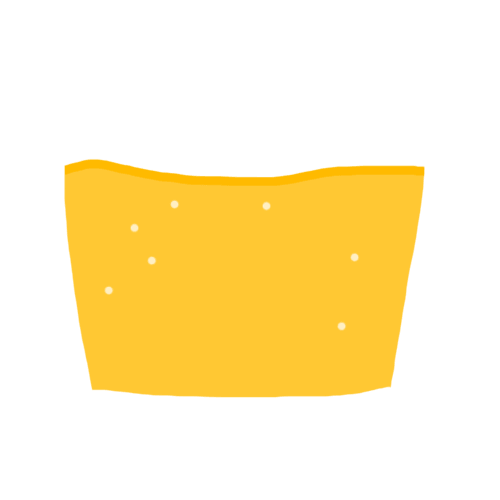
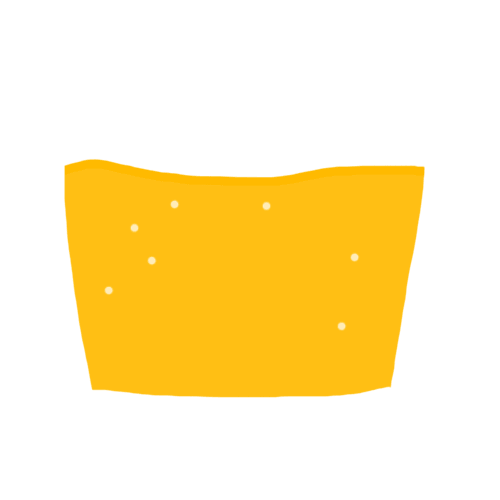
。

Changed region(s): [[0.12, 0.33, 0.87, 0.81]]

diff --git a/blog/私人/我的排行榜/收藏_酒窖仓库.html b/blog/私人/我的排行榜/收藏_酒窖仓库.html
@@ -2,14 +2,14 @@
 layout: page2
 title: 酿酒材料仓库
 nav_text: 酿酒材料仓库
-nav_url: <a href="/jiuxian">酒仙笔记</a><a>/</a><a href="/jiujiao">猫球的酒窖</a>
+nav_url: <a href="/jiuxian">酒仙笔记</a><a>/</a><a href="/cangmai">猫球仓买</a>
 permalink: jiujiao/cangku
 ---
 <style id="选择">.全部{font-weight:bold}</style>
 <style id="选择2">.喜好{font-weight:bold}</style>
 <div id="弹窗" style="display:none;"></div>
 <input type="text" placeholder="搜索" id="搜索" autocomplete="off" onkeyup="搜索(this.value)">
-<fieldset id="dy0"><small>排序方式：</small> <a onclick="排序(当前排序='首字母')" class='首字母'>首字母</a>　<a onclick="排序(当前排序='喜好')" class='喜好'>喜好</a>　<a onclick="排序(当前排序='品级')" class='品级'>品级</a>　<a onclick="排序(当前排序='随机')" class='随机'>随机</a></fieldset>
+<fieldset id="dy0"><small>排序方式：</small> <a onclick="排序(当前排序='首字母')" class='首字母'>首字母</a>　<a onclick="排序(当前排序='喜好')" class='喜好'>喜好</a>　<a onclick="排序(当前排序='稀有度')" class='稀有度'>稀有度</a>　<a onclick="排序(当前排序='随机')" class='随机'>随机</a></fieldset>
 
 <a onclick="this.style.display='none';this.nextElementSibling.style.display='inline'">筛选</a>
 <fieldset id="dy1" style="display:none;"></fieldset><br><br><div id="dy2"></div><hr>
@@ -51,14 +51,13 @@ let 选择=["br", // "【","】"
     ["亚煞极的黑暗之血",["来自艾泽拉斯上古之神亚煞极。",""],["YSJDHAZX",2,"«魔兽世界»",2,"怪物"]],
     ["上古水果",["千万年来冬眠中的水果。",""],["SGSG",3,"«星露谷物语»",2,"水果","蓝"]],
     ["霜瓜",["因表面结一层白霜而得名，瓜肉鲜脆清甜。",""],["SG",4,"«星露谷物语»",4,"水果","甜","白","蓝"]],
-    ["附魔金苹果",["用大量黄金给一颗苹果附魔，很珍贵。<br>有治愈效果，还会让人更加强壮。",""],["FMJPG",3,"«我的世界»",1,"水果","治愈","强身健体","黄"]],
     ["骨粉",["用骨头磨成的粉，可以帮助植物快速生长。",""],["GF",5,"«我的世界»",4,"白"]],
     ["恶魂之泪",["[恶魂]死亡时掉落。",""],["EHZL",3,"«我的世界»",3,"怪物"]],
     ["发酵蛛眼",["用蜘蛛眼、糖、棕色蘑菇发酵获得。",""],["FJZY",4,"«我的世界»",4,"生物","怪物","紫"]],
     ["下界疣",["生长在[灵魂沙]上的奇怪植物，在«我的世界»是酿造几乎所有药水的基础。",""],["XJY",4,"«我的世界»",3,"植物","红"]],
     ["鳞渊冰泉",["产自[鳞渊境]的天然饮用水，但热量极高。",""],["LYBQ",4,"«星穹铁道»",4,"水"]],
     ["热浮羊奶",["仙舟联盟的特产浮羊奶，也叫‘晴柔奶’，难以保存，所以很难在域外品尝到。<br>加热后不用加糖也很甜，但放凉后会发苦，必须趁热喝。",""],["RFYN",4,"«星穹铁道»",4,"甜","乳"]],
-    ["“幸运祝福”",["丽莎为我炼制的奇特药剂，呈现出黄金般的美丽色泽。能为使用者带来好运，在药效消失之前将会事事顺心。<br>由于所需原料相当稀有，调配过程极其复杂，只有极少数人能够炼制成功。",""],["XYZF",2,"«原神»",2,"药剂","好运","黄"]],
+    ["“幸运祝福”",["丽莎为我炼制的奇特药剂，呈现出黄金般的美丽色泽。能为使用者带来好运，在药效消失之前将会事事顺心。<br>由于所需原料相当稀有，调配过程极其复杂，只有极少数人能够炼制成功。",""],["XYZF",1,"«原神»",2,"药剂","好运","黄"]],
 
     //原神物产志
     ["墩墩桃",["林中灌木结出的果实。肉质敦实，味道香甜可口。据说食用后还有宁心安神的功效。",""],["DDT",4,"«原神»",4,"水果","甜","安神","粉"]],
@@ -113,6 +112,7 @@ for(let i=0;data.length>i;i++){
 let 选项=[],当前排序="喜好";
 
 let 喜好={0:"S",1:"A",2:"B",3:"C",4:"D",5:"未分类"}
+let 稀有度={0:"S",1:"A",2:"B",3:"C",4:"D",5:"垃圾"}
 
 function 打印(){
     let 结果=data.filter(a=>选项.every(b=>a[2].includes(b)));
@@ -126,6 +126,17 @@ function 打印(){
                 if(结果[i][2][3]!=临时||i==0){
                     临时=结果[i][2][3];
                     dyy+="<h4>"+喜好[临时]+"</h4>";
+                }
+                dyy+=结果[i][1];
+                document.getElementById("dy2").innerHTML=dyy;
+            }
+        }else if(当前排序=="稀有度"){
+            let 临时="";
+            let dyy="";
+            for(let i=0;结果.length>i;i++){
+                if(结果[i][2][1]!=临时||i==0){
+                    临时=结果[i][2][1];
+                    dyy+="<h4>"+稀有度[临时]+"</h4>";
                 }
                 dyy+=结果[i][1];
                 document.getElementById("dy2").innerHTML=dyy;
@@ -153,7 +164,8 @@ function 选(o){
 function 排序(){
     if(当前排序=='首字母'){
         data.sort((a,b)=>a[2][0].localeCompare(b[2][0]));
-    }else if(当前排序=='品级'){
+    }else if(当前排序=='稀有度'){
+        data.sort((a,b)=>a[2][3]-b[2][3]);
         data.sort((a,b)=>a[2][1]-b[2][1]);
     }else if(当前排序=='喜好'){
         data.sort((a,b)=>a[2][1]-b[2][1]);

diff --git a/css/all.css b/css/all.css
@@ -48,6 +48,16 @@ table.tm tr td,table.tm tr{background-color:transparent !important}
 .xhxl{border-bottom:2px solid #0044ff}
 .xhxlv{border-bottom:2px solid #00ff51}
 .xhxh{border-bottom:2px solid #ff0000}
+del.叉{position:relative;display:inline-block;text-decoration:none}
+del.叉::after,del.叉::before{content:'';position:absolute;top:50%;left:0;width:100%;height:1.4px;background:currentColor}
+del.叉1::after{transform:translateY(-50%) rotate(-45deg)}del.叉1::before{transform:translateY(50%) rotate(45deg)}
+del.叉2::after{transform:translateY(-50%) rotate(-22deg)}del.叉2::before{transform:translateY(50%) rotate(22deg)}
+del.叉3::after,del.叉4::after{transform:translateY(-50%) rotate(-15deg)}del.叉3::before,del.叉4::before{transform:translateY(50%) rotate(15deg)}
+del.叉5::after{transform:translateY(-50%) rotate(-10deg)}del.叉5::before{transform:translateY(50%) rotate(10deg)}
+del.叉6::after{transform:translateY(-50%) rotate(-8deg)}del.叉6::before{transform:translateY(50%) rotate(8deg)}
+del.叉7::after{transform:translateY(-50%) rotate(-6deg)}del.叉7::before{transform:translateY(50%) rotate(6deg)}
+del.叉8::after,del.叉9::after{transform:translateY(-50%) rotate(-5deg)}del.叉8::before,del.叉9::before{transform:translateY(50%) rotate(5deg)}
+del.叉红::after,del.叉红::before{color:#ff0000}
 
 .zhushi{color:#6A9955}span.zhushi:before{content:"//"}div.zhushi:before{content:"/* "}div.zhushi:after{content:" */"}
 span.zhushi[onclick^="this.innerHTML="]{cursor:pointer}

diff --git a/blog/笔记/社会问题/游戏节奏/游戏节奏1_2024.html b/blog/笔记/社会问题/游戏节奏/游戏节奏1_2024.html
@@ -2399,6 +2399,8 @@ up主[饭帅]发文分析和科普原神的UI设计（<a href="https://www.bilib
 〈li|其他游戏 乙游 网易〉«时空中的绘旅人»的两个章节消耗体力减半，已经用体力过完这些章节的老玩家感到不满。</li>
 〈li|其他游戏 乙游 网易 X群体〉«时空中的绘旅人»新卡出现了婚纱元素，被〈X群体〉抵制，她们认为结婚是对女性的压迫。</li>
 〈li|其他游戏 任天堂〉任天堂公布财报显示switch累计销量超1亿台，“任天堂”等话题登上微博热搜，不过也有许多网友疑惑「任天堂是谁？」</li>
+〈li|其他游戏 网易 碰瓷营销〉«燕云十六声»发文嘲讽竞品是「被霍格沃兹占领的武侠」、「声称武侠游戏，但充斥着华丽夸张的超自然设定」。<br>
+后续：几年后«燕»也在增加华丽夸张的超自然特效。</li>
 
 〈展开更多|
 |鹰角 B站／某up主几乎所有视频都在反米哈游，账号一直没出事，直到提了一嘴«明日方舟»遭到举报封号，解封后发文「我很喜欢明日方舟，不要再举报我了」，没过几天再次被封号。

diff --git a/404.html b/404.html
@@ -18,7 +18,7 @@ pinglun: 1
 <li>在本页底部留言。<sup style="color:#00bb3e;">推荐</sup></li>
 <li>使用QQ:<a onclick="复(制='{{ site.mq_qq }}')">{{ site.mq_qq }}</a>向猫球反馈。</li>
 <li><a href="{{ site.mq_i }}">回到首页</a>找找看。</li>
-<li><span class="redX">奖励</span>殴打猫球。<sup style="color:#ff2424;" class="ssfd">猫球:不推荐!!!</sup></li>
+<li><del class="叉 叉红 叉2">奖励</del>殴打猫球。<sup style="color:#ff2424;" class="ssfd">猫球:不推荐!!!</sup></li>
 </ol></small>
 
 <script>

diff --git a/blog/私人/我的排行榜/收藏_纪念品.html b/blog/私人/我的排行榜/收藏_纪念品.html
@@ -486,9 +486,6 @@ for(let i=0;data.length>i;i++){
 let xyz=data.splice(dy);
 data.pop();
 
-console.log(data)
-console.log(xyz)
-
 dy="";
 for(let i=0;xyz.length>i;i++){
     if(typeof xyz[i]==='string'){
